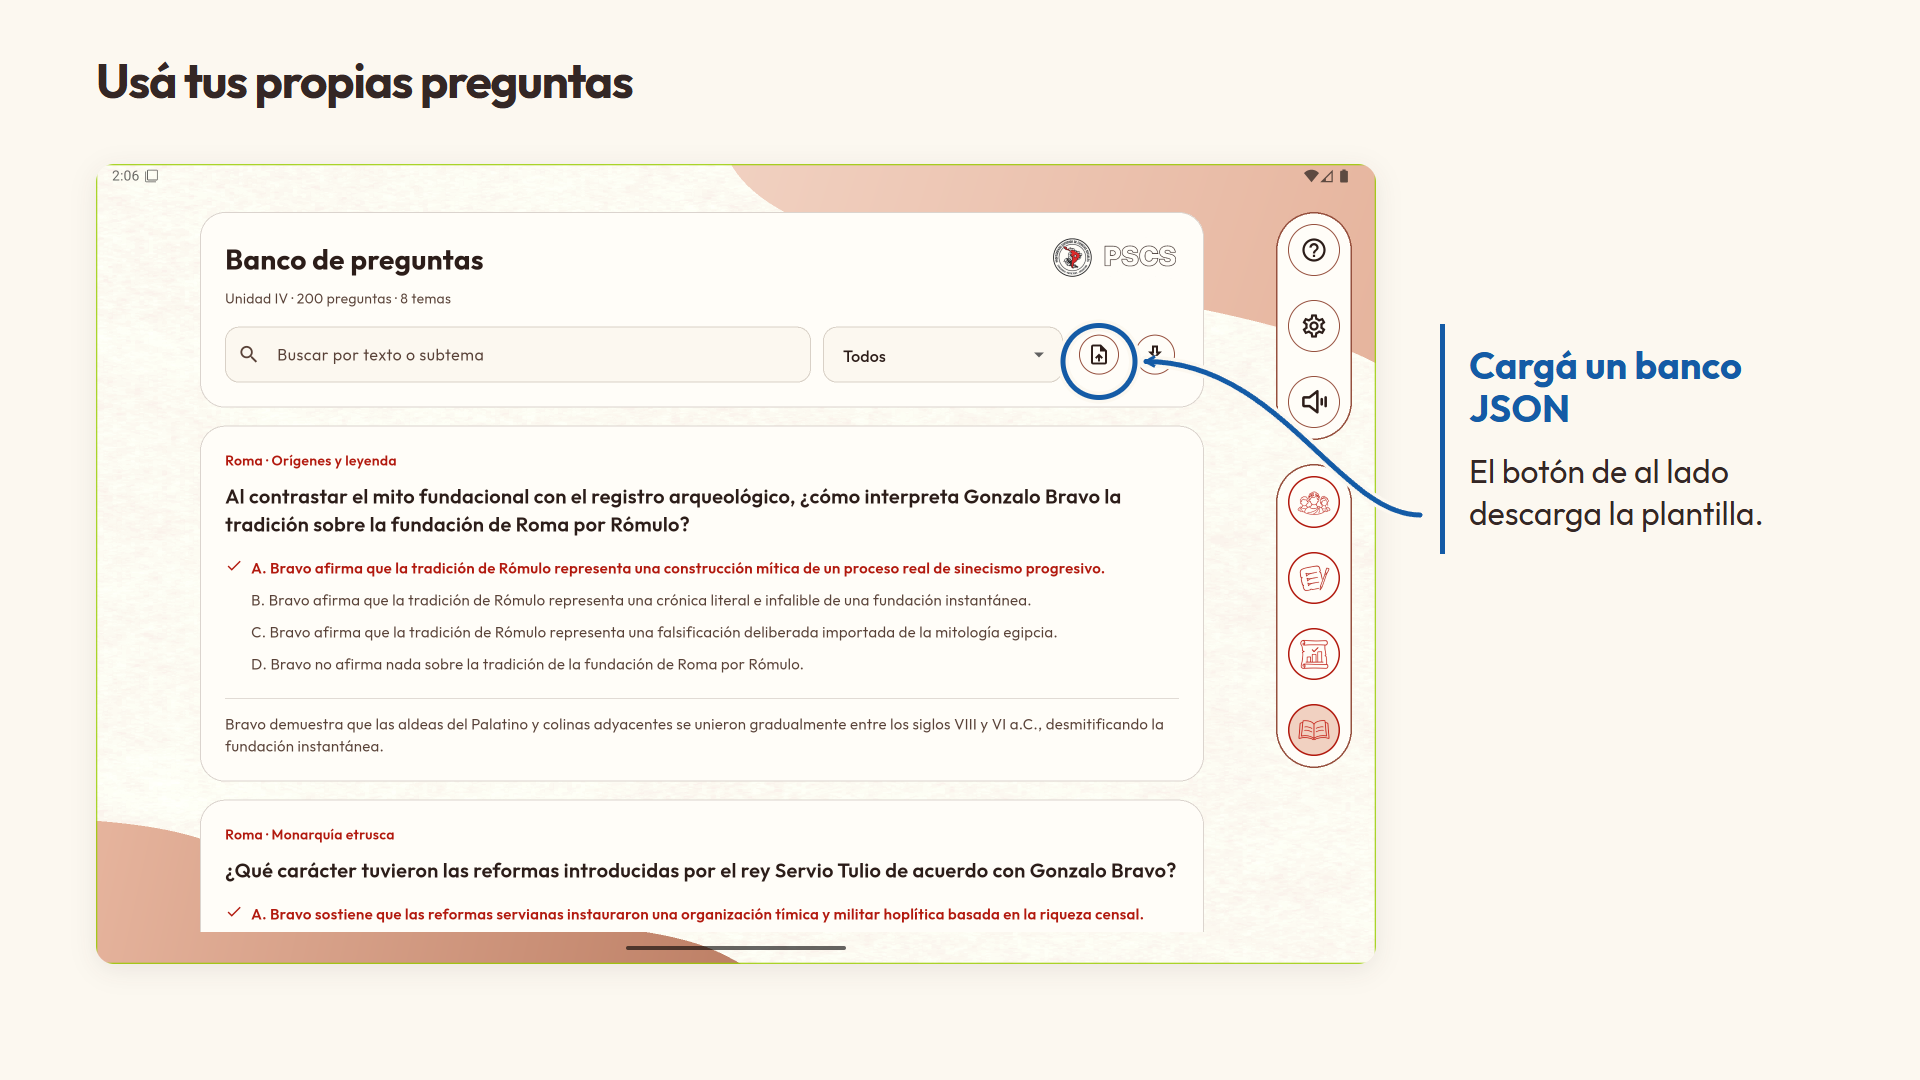
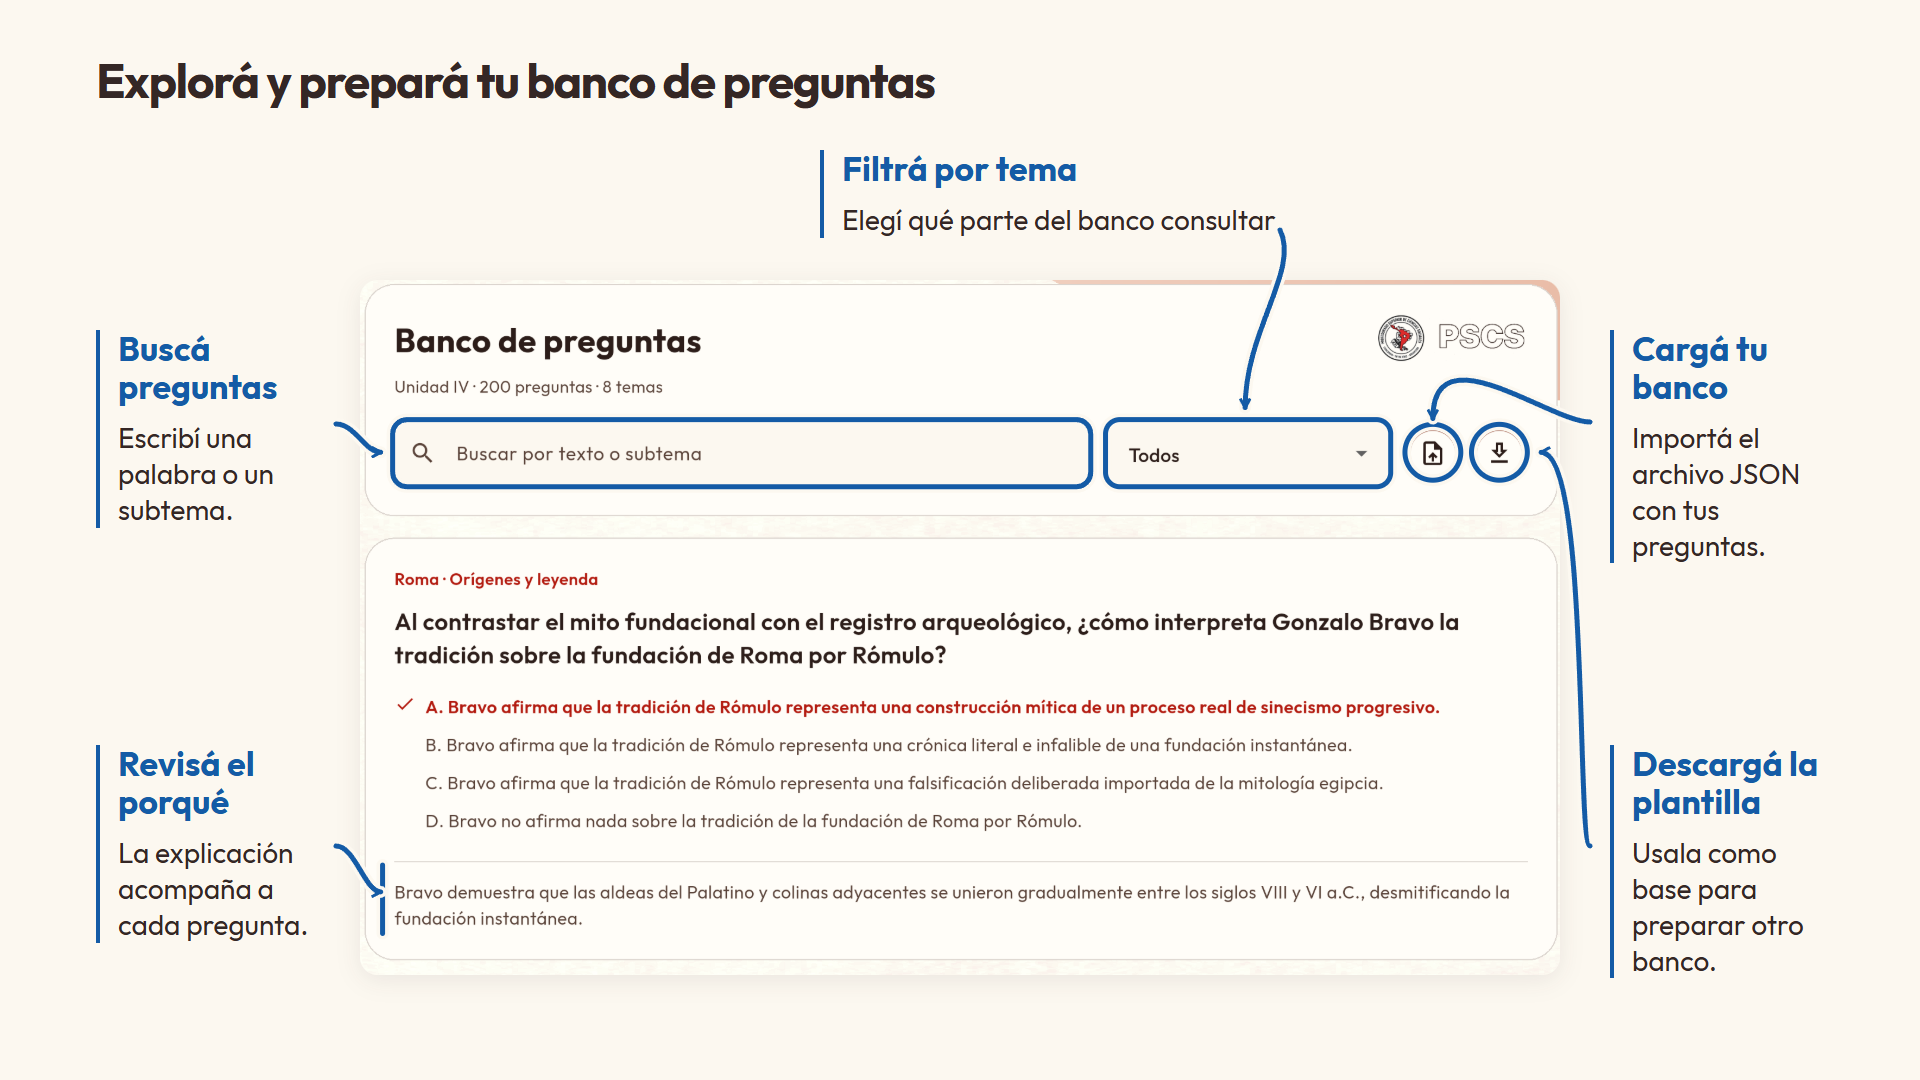
Trivia

diff --git a/README.md b/README.md
@@ -85,7 +85,7 @@ Podés preparar Trivia para otra materia cargando un **banco de preguntas en for
 
 Se admiten bancos de **10 a 2000 preguntas**, siempre que alcancen para reservar diez por estudiante. La app permite descargar una plantilla y volver al banco incluido cuando lo necesites.
 
-![Dónde cargar un banco de preguntas y descargar su plantilla](docs/guia-visual/banco.png)
+![Banco de preguntas con indicaciones para buscar, filtrar, importar JSON, descargar la plantilla y revisar la explicación](docs/guia-visual/banco.png)
 
 Para revisar una parte del banco, elegí un tema en el menú. También podés buscar por texto o subtema.
 
